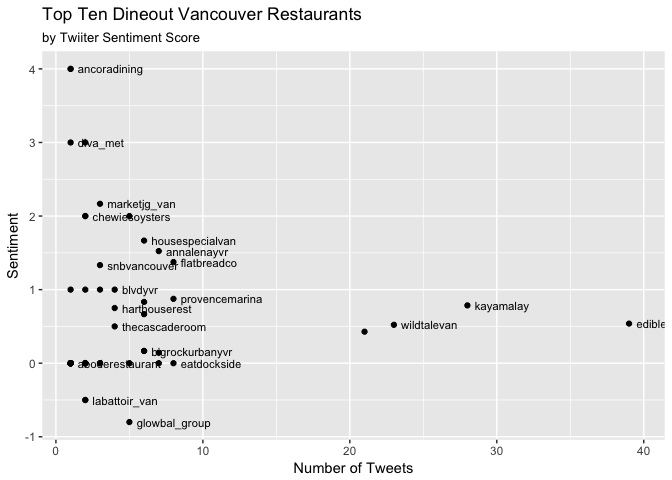
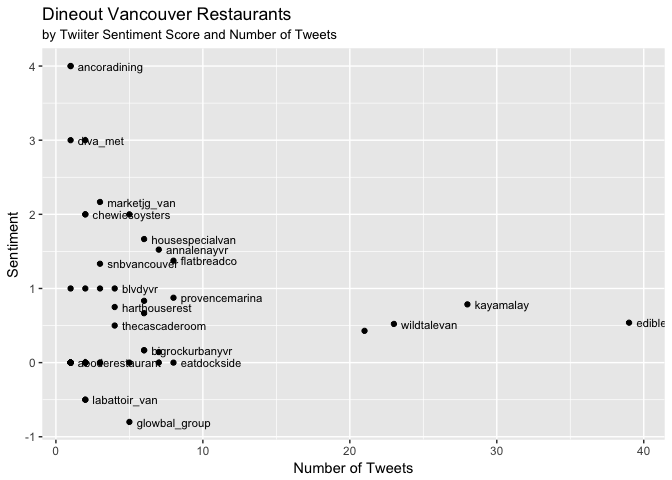
Update blog post and figures

diff --git a/_posts/2017-01-22-DineoutSentiment.md b/_posts/2017-01-22-DineoutSentiment.md
@@ -7,14 +7,16 @@ I'm a huge fan of food. I like cooking it, eating it, taking pictures of it and 
 
 But, with over 280 restaurants participating according to the [Georgia Straight](http://www.straight.com/food/853156/over-280-restaurants-participating-dine-out-vancouver-2017), and fierce competition for reservations, how are you supposed to choose where to spend your money?
 
-Inspired by David Robinson's post [here](http://varianceexplained.org/r/yelp-sentiment/), I decided to combine my love of food with my love of data science, and conduct a sentiment analysis of tweets about Dineout Vancouver and rank restaurants based on their average sentiment.
+Inspired by David Robinson's post outlining sentiment analysis of Yelp data [here](http://varianceexplained.org/r/yelp-sentiment/), I decided to combine my love of food with my love of data science, and conduct a sentiment analysis of tweets about Dineout Vancouver and rank restaurants based on their average sentiment.
+
+The first question you might have is: What is sentiment analysis? In short, it's looking at text and specific words in text and labeling them as either positive or negative, to determine whether the message as a whole is positive or negative. For more information read [this](https://en.wikipedia.org/wiki/Sentiment_analysis)
 
 Getting The Tweets
 ------------------
 
-My first task was getting all the tweets. For this I used Python and the [tweepy library](http://www.tweepy.org/). I took a quick google search for Dineout Vancouver, to find relevant hashtags and user accounts. I found that most posts were using \#DineOutVancouver, \#DOVF, \#dinearound2017 and @DineOutVanFest, the organization's official Twitter handle. Next I connected to the twitter API using my credentials. If you're following along here, I'm assuming that you already know how to register a new twitter application, and grab your credentials. If you don't know how to do that read [this](https://iag.me/socialmedia/how-to-create-a-twitter-app-in-8-easy-steps/).
+My first task was getting all the tweets. For this I used Python and the [tweepy library](http://www.tweepy.org/). I did a quick Google and Twitter search for Dineout Vancouver to find relevant hashtags and user accounts. I found that most posts were using \#DineOutVancouver, \#DOVF, \#dinearound2017 and @DineOutVanFest, the organization's official Twitter handle. Next I connected to the twitter API using my credentials. If you're following along here, I'm assuming that you already know how to register a new twitter application, and grab your credentials. If you don't know how to do that read [this](https://iag.me/socialmedia/how-to-create-a-twitter-app-in-8-easy-steps/).
 
-I started by opening a connection using tweepy, and searching for the relevant words. I eliminated the tweets containing "RT" as these tend to be the restaurants themselves retweeting positive tweets. For each tweet, I grab the text of the tweet, the sender and the unique id. Then, I turn everything into a [pandas](http://pandas.pydata.org/) dataframe and append the the output to a CSV file, as I'm going to do the rest of the analysis in R. Note that I'm appending here instead of overwriting, because the twitter API limits your tweets to the last week. I'd like to re-run this a number of times to get all the tweets during dineout.
+I started by opening a connection using tweepy, and searching for tweets with the relevant words. I eliminated the tweets containing "RT" as these tended to be the restaurants themselves retweeting positive tweets. For each tweet, I grabbed the text of the tweet, the sender and the unique id. Then, I turned everything into a [pandas](http://pandas.pydata.org/) dataframe and append the the output to a CSV file, as I did the rest of the analysis in R. Note that I appended here instead of overwriting, because the twitter API limits your tweets to the last week. I'd like to re-run this a number of times to get all the tweets during Dineout.
 
     # load packages
     import tweepy
@@ -64,7 +66,7 @@ I started by opening a connection using tweepy, and searching for the relevant w
 Necessary But Painful Data Entry
 --------------------------------
 
-I'm not going to lie, this part wasn't fun. I'm sure with enough effort I could have mostly automated all of this by writing a little program in [scrapy](https://scrapy.org/) to crawl search results and look for twitter handles, but I felt like that would take longer than doing it manually, so I just bit the bullet and manually collected all of the twitter names of participating restaurants I could find. I used Google Sheets to compile this into a list and then save it as a CSV. I think it's important to note here, that not every restaurant has a Twitter handle, and some restaurant chains such as Cactus Club or Glowbal Group, have multiple restaurants under one name. This isn't ideal, as in the case of Glowbal Group, they have a bunch of different restaurants serving different food. So, a review of one restaurant shouldn't effect the others, but it's the best I could do.
+I'm not going to lie, this part wasn't fun. I'm sure with enough effort I could have mostly automated all of this by writing a little program in [scrapy](https://scrapy.org/) to crawl search results and look for twitter handles. But, I felt that would take longer than doing it manually. So, I just bit the bullet and manually collected all of the twitter names of participating restaurants I could find. I used Google Sheets to compile this into a list and then save it as a CSV. I think it's important to note here, that not every restaurant has a Twitter handle, and some restaurant chains such as Cactus Club or Glowbal Group, have multiple restaurants under one name. This isn't ideal, as in the case of Glowbal Group, they have a bunch of different restaurants serving different food. So, a review of one restaurant will affect the others, but it's the best I could do.
 
 Data Wrangling and Analysis
 ---------------------------
@@ -79,7 +81,7 @@ library(tidytext)
 library(knitr)
 ```
 
-Next, I read in my list of participating restaurants, and eliminated the duplicates mentioned above. We're going to use this later to filter out tweets to users who aren't participating restaurants.
+Next, I read in my list of participating restaurants, and eliminated the duplicates mentioned above. I use this later to filter out tweets to users who aren't participating restaurants.
 
 ``` r
 # load in the list of dineout restaurants
@@ -93,7 +95,7 @@ restaurants <- restaurants %>%
 restaurant_twitter_names <- unique(restaurants$twitter_username)
 ```
 
-Here, I load in the list of tweets, and eliminate any duplicates. I'm doing this because every time I pull new tweets I'm appending instead of overwriting, so there will be duplicates. Then I write the clean dataset back to the file. I'm also converting the id to a character string rather than a number.
+Here, I loaded in the list of tweets, and eliminated any duplicates. I did this because every time I pull new tweets I'm appending instead of overwriting, so there will always be duplicates. Then, I wrote the clean dataset back to the file. I also converted the id to a character string rather than a number.
 
 ``` r
 # load in the list of tweets with either #dineoutvancouver or @dineoutvanfest
@@ -110,7 +112,7 @@ tweets <- tweets %>%
   mutate(tweet_id=as.character(tweet_id))
 ```
 
-Now I have a list of unique tweets, but the users I'm looking for are within the text of the tweet, and some tweets mention multiple users. So, I start by using `map` to create an extra column only containing the users mentioned in the tweet. Then, for each tweet I create a separate row containing the same tweet information for each user mentioned. This is important, because where multiple users are mentioned, I want the sentiment of each tweet to contribute to each of the mentioned user's scores.
+At this point, I had a list of unique tweets, but the usernames I needed were within the text of the tweet, and some tweets mention multiple users. So, I started by using `map` to create an extra column only containing the users mentioned in the tweet. Then, for each tweet I created a separate row containing the same tweet information for each user mentioned. This is important, because where multiple users are mentioned, I wanted the sentiment of each tweet to contribute to each of the mentioned user's scores.
 
 ``` r
 # pull the list of users sent the message from the text of the tweet and create a new column
@@ -122,7 +124,7 @@ tweets <- tweets %>%
   unnest_tokens(username, users)
 ```
 
-Here's where the magic of [tidytext](https://github.com/juliasilge/tidytext) comes in. First, the `unnest_tokens()` method allows me to easily split each tweet into a separate row per word. The tidytext package also contains a list of pre-compiled stop words to help you filter out words not relevant to the sentiment analysis. So, my next step is removing these from the words in each tweet. Next, I'm using the AFINN lexicon, also included in the tidytext package that includes a positivity score from -5 to positive 5 for each word, and using an inner join with the list of tweeted words, to get a sentiment score for each word. Then, I calculating the mean sentiment score for each tweet.
+Here's where the magic of [tidytext](https://github.com/juliasilge/tidytext) came in. First, the `unnest_tokens()` method allowed me to easily split each tweet into a separate row per word. The tidytext package also contains a list of pre-compiled stop words to help me filter out words not relevant to the sentiment analysis. So, my next step was removing these stop words from the words in each tweet. Next, I used the AFINN lexicon, also included in the tidytext package that includes a positivity score from -5 to positive 5 for each word. I joined the AFINN words using an inner join with the list of tweeted words, to get a sentiment score for each word. Then, I calculated the mean sentiment score for each tweet.
 
 ``` r
 # remove stop words from the tweets
@@ -174,7 +176,7 @@ print(sprintf("Number of total tweets: %d", length(tweets$tweet_id)))
 
     ## [1] "Number of total tweets: 1434"
 
-Now we have a list of tweets with an average sentiment score, based on the sentiment score of the individual words in each tweet. But, we have a bit of problem. There's only 453 out of 1434 tweets that contained any of the words in the AFINN lexicon. What this means for my analysis, is that there's a lot of tweets that don't contain negative or positive words. At this point, I need to make a choice. I'm going to count tweets with no negative or positive words as neutral by assigning them a zero value. To do this, I'm combining the tweets with sentiment scores with the original tweets again, and then I'm assigning 0 to the sentiment value of any tweet with `NA`.
+At this point, I had a list of tweets with an average sentiment score, based on the sentiment score of the individual words in each tweet. But, I had a bit of a problem here. There was only 453 out of 1434 tweets that contained any of the words in the AFINN lexicon. This meant many of the tweets didn't contain negative or positive words. At this point, I needed to make a choice. I decided to count tweets with no negative or positive words as neutral by assigning them a zero value. To do this, I combined the tweets with sentiment scores with the original tweets again, and then I'm assigned 0 to the sentiment value of any tweet with `NA`.
 
 ``` r
 # combine the sentiment with original tweet list
@@ -185,7 +187,7 @@ tweet_with_sentiment <- tweets %>%
 tweet_with_sentiment$sentiment[is.na(tweet_with_sentiment$sentiment)] <- 0
 ```
 
-Now we have a list of all our tweets again with sentiment scores for all of them. Next, we need to determine a sentiment score for each user. Finally, we need to filter out users mentioned that aren't participating restaurants.
+After that, I had a list of all the tweets again with sentiment scores for all of them. Next, I needed to determine a sentiment score for each user and filter out users mentioned that aren't participating restaurants.
 
 ``` r
 # get the average sentiment of each user
@@ -209,10 +211,10 @@ top_ten_sentiment <- top_ten_sentiment %>%
 top_ten_table <- kable(x = top_ten_sentiment, align = 'c', caption = "Top Ten Dineout 2017 Restaurants by Twitter Sentiment")
 ```
 
-Now I'll print the top ten restaurants in a table along with their sentiment score and number of tweets. I'll also produce a bar chart with the same information. I'm also going to create a scatter plot of the number of tweets versus the sentiment score to visualize any relationship between the two.
+Next, I printed the top ten restaurants in a table along with their sentiment score and number of tweets. I also produced a bar chart with the same information. Lastly, I created a scatter plot of the number of tweets versus the sentiment score to visualize any relationship between the two.
 
 ``` r
-# reorder the restaurants by decending sentiment
+# reorder the restaurants by descending sentiment
 plot_sentiment <- participant_sentiment %>%
   mutate(username=reorder(username, -sentiment)) %>%
   select(username, sentiment, n_tweets) %>%
@@ -232,7 +234,7 @@ tweets_v_sentiment <- ggplot(participant_sentiment, aes(x=n_tweets, y=sentiment,
   geom_text(size = 3, check_overlap = TRUE, hjust = 0, nudge_x = 0.5) +
   xlab("Number of Tweets") +
   ylab("Sentiment") + 
-  ggtitle(label = "Top Ten Dineout Vancouver Restaurants", subtitle = "by Twiiter Sentiment Score")
+  ggtitle(label = "Dineout Vancouver Restaurants", subtitle = "by Twiiter Sentiment Score and Number of Tweets")
 ```
 
 Results
@@ -253,16 +255,16 @@ Results
 | housespecialvan |  1.666667 |    6   |
 |   annalenayvr   |  1.523810 |    7   |
 
-![](https://kitsonswann.github.io/kitsonswann.github.io/images/sentiment_bar.png)
-![](https://kitsonswann.github.io/kitsonswann.github.io/images/sentiment_v_tweets.png)
+![](https://kitsonswann.github.io/images/sentiment_bar.png)
+![](https://kitsonswann.github.io/images/sentiment_v_tweets.png)
 
 Discussion
 ----------
 
-This is pretty exciting to me. In a few hours worth of work using the Twitter API and packages such as `tweepy` for Python and `tidytext` for R, I was able to conduct a real life sentiment analysis of something I care about, to help me make a purchase decision. But, there's definitely some limitations of this analysis and room for improvement. Firstly, there isn't a lot of data to go on here, as Dineout Vancouver 2017 only began on Friday, January 20th, so there's very few tweets in general. One positive or negative tweet, can really sway the sentiment score. Also, looking at some of the tweets that are negative, the algorithm definitley isn't perfect. Here's a few examples:
+This small example was pretty exciting to me. In a few hours worth of work using the Twitter API and packages such as `tweepy` for Python and `tidytext` for R, I was able to conduct a real life sentiment analysis of something I care about, to help me make a purchase decision. But, there's definitely some limitations of this analysis and room for improvement. Firstly, there isn't a lot of data here, as Dineout Vancouver 2017 only began on Friday, January 20th. One positive or negative tweet can really sway the sentiment score. Also, looking at some of the tweets that are negative, the algorithm definitely isn't perfect. Here's a few examples:
 
 ``` r
-# get the ten worst tweets
+# get the worst tweets
 worst_tweets <- tweet_with_sentiment %>%
   filter(username %in% restaurant_twitter_names & sentiment < 0) %>% 
   arrange(sentiment) %>%
@@ -369,5 +371,8 @@ Don't forget that @dineoutvanfest starts tomorrow! @La\_Pentola is one of the pa
 </tr>
 </tbody>
 </table>
+Most of these tweets are actually negative, but there are some that aren't. Also, there's a lot of negative tweets about @EdibleCanada, but they are all related to the moral issue of them serving seal meat, rather than how good the food was or how good the service was. I think another improvement that could be made here, would be to create or find a list of positive/negative words specifically related to food, that may not be in the list I used from tidytext.
 
-For example most of these tweets are negative, but there are a couple that aren't. Also, there's a lot of negative tweets about @EdibleCanada, but they are all related to outrage about them serving seal meat, rather than how good the food is or how good the service is. I think another improvement that needs to be made here, would be to create or find a list of positive/negative words specifically related to food, that may not be in the list I used from tidytext.
+If you would like to use/adapt the code from this post, I've included all of my code and data files in [this github repository](https://github.com/kitsonswann/DineoutVancouverSentiment)
+
+If you enjoyed my post, have any suggestions or would like to see me write about anything in the future, please let me know.
